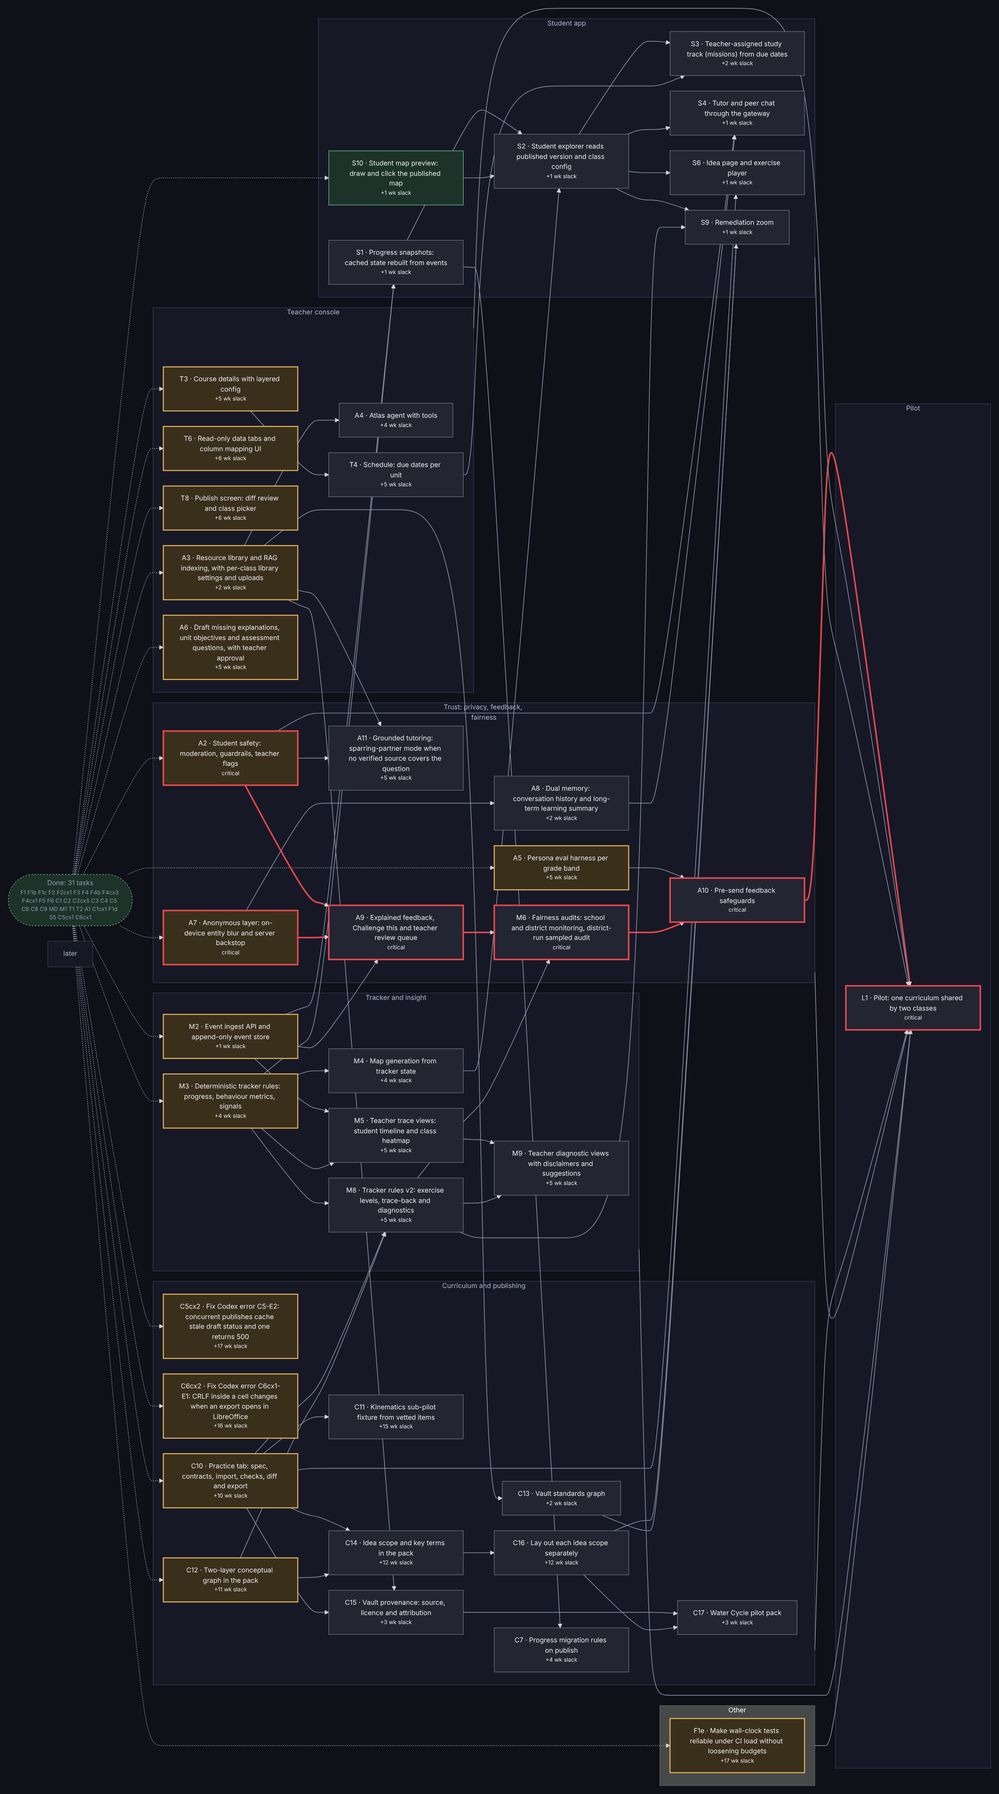
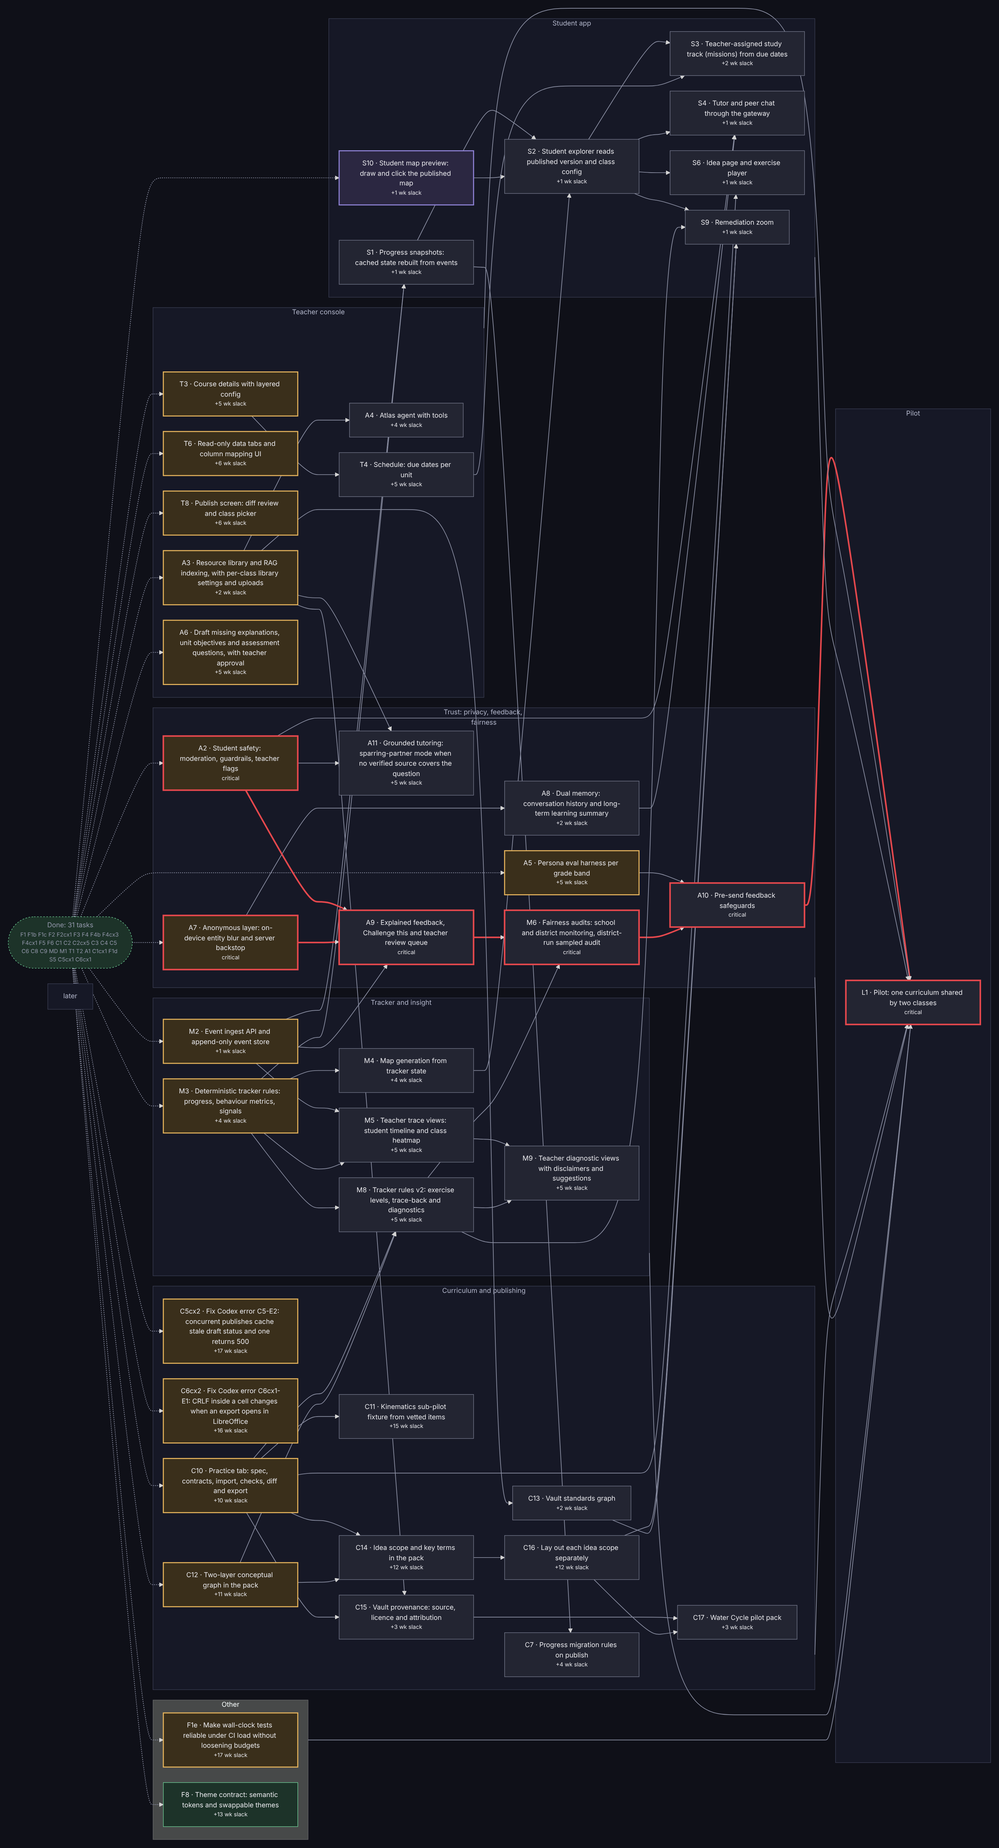
docs: D46 themeable design tokens; add F8 theme contract (v0.1)
User, 2026-10-29: colours and themes must come from a template so later
themes can be substituted. Nocturne stays the default with D10's
exceptions; other themes must pass WCAG AA outright. Criteria written
first. Also records the Claude Design loop for the student screens.

Claude-Session: https://claude.ai/code/session_017xAqLcBw3ZrNAbTTGfVg5K

diff --git a/docs/PLAN.md b/docs/PLAN.md
@@ -2,7 +2,7 @@
 
 <!-- Generated by `node scripts/plan.mjs` from docs/tasks.json. Do not edit by hand. -->
 
-**31 of 100 done** · 1 ready · 1 in progress · 15 in review · 34 blocked · 18 need a spec
+**31 of 101 done** · 2 ready · 1 in progress · 15 in review · 34 blocked · 18 need a spec
 
 Critical path to the v0.1 pilot: F1 → F3 → F4 → F5 → A1 → A2 → A9 → M6 → A10 → L1 (up to 20 weeks)
 
@@ -12,7 +12,7 @@ Goals and scope are in [ROADMAP.md](ROADMAP.md) (D45). Progress is weighted by t
 
 | Version | Focus | Done | Built | In review | In progress | Ready | Need a spec | Milestone |
 |---|---|---|---|---|---|---|---|---|
-| v0.1 | Pilot (MVP) | 31 of 73 | 39% | 15 | 1 | 0 | 1 | L1 |
+| v0.1 | Pilot (MVP) | 31 of 74 | 38% | 15 | 1 | 1 | 1 | L1 |
 | v0.2 | AI design principles | 0 of 12 | 0% | 0 | 0 | 0 | 8 | — |
 | v0.3 | Visuals and motivation | 0 of 8 | 0% | 0 | 0 | 0 | 7 | — |
 | v0.4 | Curriculum building | 0 of 7 | 0% | 0 | 0 | 1 | 2 | — |
@@ -23,8 +23,10 @@ Pick from here. Claim with `node scripts/plan.mjs claim <ID> <agent>`. A task ca
 
 | ID | Version | Task | Phase | Size | QA |
 |---|---|---|---|---|---|
+| F8 | v0.1 | Theme contract: semantic tokens and swappable themes | Foundations | ≤1 wk | [criteria](qa/F8.md) |
 | X2 | v0.4 | Self-hosted video and media provider | Extras & research | ≤1 wk | [criteria](qa/X2.md) |
 
+- **F8 done when:** Per D46: every colour reaches the apps only through tokens defined by a theme file; Nocturne is the default theme (D10 unchanged); map, category and state colours are tokens; a second theme swaps in at runtime without code changes; no raw colours outside theme files (checked in CI); every non-Nocturne theme passes WCAG AA outright
 - **X2 done when:** Per D42 (after the pilot, user 2026-10-29): media_url and demo_video_url resolve through a MediaProvider served from our own domain (no third-party players), with captions (D17); Cloudinary only as an optional backend behind it
 
 ## In progress
@@ -61,7 +63,7 @@ Pick from here. Claim with `node scripts/plan.mjs claim <ID> <agent>`. A task ca
 | S2 | v0.1 | Student explorer reads published version and class config | S1, M4, S10 |
 | S3 | v0.1 | Teacher-assigned study track (missions) from due dates | S2, T4 |
 | S4 | v0.1 | Tutor and peer chat through the gateway | S2, A2, A7, A8 |
-| L1 | v0.1 | Pilot: one curriculum shared by two classes | T6, T8, A4, A5, S3, S4, C7, M5, A6, A7, A9, A10, M6, C5cx2, A11, C6cx2, C10, C11, C12, C13, M8, M9, S6, F1e, C14, C15, C16, C17, S9, S10 |
+| L1 | v0.1 | Pilot: one curriculum shared by two classes | T6, T8, A4, A5, S3, S4, C7, M5, A6, A7, A9, A10, M6, C5cx2, A11, C6cx2, C10, C11, C12, C13, M8, M9, S6, F1e, C14, C15, C16, C17, S9, S10, F8 |
 | A8 | v0.1 | Dual memory: conversation history and long-term learning summary | A7 |
 | A9 | v0.1 | Explained feedback, Challenge this and teacher review queue | A2, M2, A7 |
 | A10 | v0.1 | Pre-send feedback safeguards | A9, A5, M6 |
@@ -105,7 +107,7 @@ Not claimable yet. A person writes the spec, then sets `placeholder` to false in
 | S11 | v0.3 | Sandbox exploration view | S2, C16, C12 |
 | S12 | v0.3 | Milo's avatar and peer reactions | S4 |
 | S13 | v0.3 | Student experience polish | S6, S4, T5 |
-| S14 | v0.3 | Map light-up, mystery unlocks and themes | S2, M4 |
+| S14 | v0.3 | Map light-up, mystery unlocks and themes | S2, M4, F8 |
 | S15 | v0.3 | Levels and perks | M8 |
 | A18 | v0.3 | Relational custom examples | A16 |
 | A19 | v0.3 | Productive struggle | A15 |
@@ -213,6 +215,7 @@ flowchart LR
   end
   subgraph other["Other"]
     F1e["F1e · Make wall-clock tests reliable under CI load without loosening budgets<br/><small>+17 wk slack</small>"]
+    F8["F8 · Theme contract: semantic tokens and swappable themes<br/><small>+13 wk slack</small>"]
   end
   DONE -.-> M2
   DONE -.-> M3
@@ -230,6 +233,7 @@ flowchart LR
   DONE -.-> C12
   DONE -.-> F1e
   DONE -.-> S10
+  DONE -.-> F8
   S1 --> C7
   M3 --> M4
   M2 --> M5
@@ -284,7 +288,7 @@ flowchart LR
   tracker --> L1
   other --> L1
   linkStyle default stroke:#8b8fa3,stroke-width:1.3px
-  linkStyle 32,34,36,38,39 stroke:#e5484d,stroke-width:3px
+  linkStyle 33,35,37,39,40 stroke:#e5484d,stroke-width:3px
   style trust fill:#161826,stroke:#3a3d52,color:#b2b6ca
   style tracker fill:#161826,stroke:#3a3d52,color:#b2b6ca
   style curriculum fill:#161826,stroke:#3a3d52,color:#b2b6ca
@@ -300,6 +304,7 @@ flowchart LR
   classDef done fill:#1d3329,stroke:#6fcf97,color:#9397ab,stroke-dasharray:3 3
   classDef crit stroke:#e5484d,stroke-width:3px
   class C7,M4,M5,T4,A4,S1,S2,S3,S4,L1,A8,A9,A10,M6,A11,C11,C13,M8,M9,S6,C14,C15,C16,C17,S9 todo
+  class F8 ready
   class S10 doing
   class M2,M3,T3,T6,T8,A2,A3,A5,A6,A7,C5cx2,C6cx2,C10,C12,F1e review
   class DONE done

diff --git a/docs/qa/F8.md b/docs/qa/F8.md
@@ -1,0 +1,40 @@
+# QA criteria: F8 · Theme contract: semantic tokens and swappable themes
+
+Done when: per D46, every colour (and every font, radius and shadow that a theme may change) reaches the apps only through named CSS custom properties defined by a **theme**. Nocturne is the default theme. A second theme can be substituted at runtime, without code changes, by adding one theme file. Map, category and state colours (open, locked, mastered, link, focus) are tokens too.
+Sources: `docs/ARCHITECTURE.md` D46, D10 (Nocturne unchanged; its 9 accepted contrast exceptions apply to Nocturne only), D17 (UDL; WCAG 2.1 AA); `packages/ui` (`tokens.ts`, `styles.css`, `styles.test.ts`, README); `project/_ds/`; `project/Idea Map Explorer v2.dc.html` (map, category and state colours); S10 (first consumer); S14 (v0.3 cosmetic themes, which will use this contract).
+
+Boundary:
+- In scope: the token contract, theme files, the switch mechanism, checks, and moving S10's map colours onto tokens if S10 has merged.
+- Out of scope: choosing or unlocking themes (S14, v0.3), any new visual design, and persisting a student's choice.
+
+## Functional
+
+| Id | Weight | Check | Steps | Pass bar |
+|---|---|---|---|---|
+| F8-F1 | must | Theme contract | Read `packages/ui` | One typed contract lists every themeable token. Semantic names cover surfaces, text, accent, divider, focus, the map (`--map-node-open`, `--map-node-locked`, `--map-node-mastered`, `--map-link`, `--map-centre` or equivalents), a category palette (at least 6 slots, assigned by category order, not hard-coded names) and feedback states (success, warning, danger, info). Nocturne's existing tokens keep their names and values (D10) |
+| F8-F2 | must | Themes are files | Read `packages/ui/src/themes/` | Nocturne is `nocturne.ts`, a complete value set for the contract. A theme is applied as `[data-theme="<id>"]` custom properties on the root, generated from the theme file. The default with no attribute is Nocturne, so nothing changes visually today |
+| F8-F3 | must | Substitution works | Add a test-only theme with obviously different values, switch to it at runtime in a test page and in a component test | Every themed element changes without a reload or code change. Switching back restores Nocturne exactly |
+| F8-F4 | must | Contract is complete | Type-check a theme missing one token; build | A missing token is a type error; an extra unknown token is an error. `styles.test.ts` (or a new test) fails if the stylesheet and the contract drift apart |
+| F8-F5 | must | No raw colours outside themes | Run the new check over `packages/ui/styles.css` (outside theme blocks), `apps/*/src` (CSS, TSX, TS) and inline styles | No hex, rgb(a), hsl(a) or named colours outside theme files. The one existing `rgb(117,117,117)` in `styles.css` becomes a token. The check runs in CI (a lint rule or a test) and names the file and line |
+| F8-F6 | must | Contrast per theme | Run the contrast test for every theme | Every text pair meets 4.5:1 and every UI-component pair 3:1 (WCAG 2.1 AA) on both grounds. D10's 9 named exceptions are allowed **only** for Nocturne; any other theme must pass outright |
+| F8-F7 | must | Docs | Read `packages/ui/README.md` | Explains the contract, how to add a theme (one file plus registration), the contrast rule and the no-raw-colours check |
+| F8-F8 | must | Everything passes | Root lint, format:check, typecheck, test with DATABASE_URL (including `function_binding.test.ts`), build and plan check, on the head merged with current `idea-map` | All exit 0; CI green on the exact head |
+
+## Security
+
+| Id | Weight | Check | Steps | Pass bar |
+|---|---|---|---|---|
+| F8-S1 | must | No runtime injection | Try to set a theme id that isn't registered, or a value containing `;}` | Unknown ids fall back to Nocturne; values come only from typed theme files, never from user input or the network |
+
+## Performance
+
+| Id | Weight | Check | Steps | Pass bar |
+|---|---|---|---|---|
+| F8-P1 | must | Switch cost | Switch themes on the S10 map with 60 ideas on a 4x CPU throttle | One style recalculation, under 100 ms, with no layout shift |
+
+## Usability
+
+| Id | Weight | Check | Steps | Pass bar |
+|---|---|---|---|---|
+| F8-U1 | must | Reference page | Open `apps/teacher/reference.html` (and the student UDL reference) | Shows every token and state for the active theme, with a theme switcher, so a designer can review a theme in one place |
+| F8-U2 | must | Reduced motion and forced colours | Windows high-contrast (forced colours) and `prefers-reduced-motion` | Map states stay distinguishable by shape or icon as well as colour (UDL); a theme switch has no animation under reduced motion |

diff --git a/docs/HANDOFF.md b/docs/HANDOFF.md
@@ -54,7 +54,7 @@ Background only, and rarely needed: `project/*.dc.html` (design prototypes, used
 - **D31:** the vault (official company assets, kept and versioned, each item keeping source, licence and attribution; NC or SA items need admin approval) and disposable class uploads. **D32:** safety flags are alerts, not the school's record. **D33:** on-device names come from an ML NER model. **D34:** persona eval baselines are teacher-approved.
 - **D35:** no verified source, no facts: the tutor becomes a Socratic sparring partner. **D36:** the student profile is age-bifurcated, with no mood data. **D37:** retention for sessions, plans and reflections. **D38:** diagnostic events, not clickstreams. **D39:** dual-track study plans and the notification hierarchy.
 - **D40:** Practice is the ninth tab, from vetted item banks only. It stays strict: a teacher's own uploads never enter Practice. **D41:** the Vault standards graph and the two-layer trace-back. **D42:** pilot scope; self-hosted video, moved to v0.4.
-- **D43:** Ideas gain `scope` (prerequisite, core, extension) and `key_terms`; the unchanged layout runs per scope. **D44:** the Water Cycle pilot graph (`docs/decisions/2026-10-29-water-cycle-pilot-graph.md`). **D45:** versions v0.1–v0.4; a task depends only on its own or an earlier version.
+- **D43:** Ideas gain `scope` (prerequisite, core, extension) and `key_terms`; the unchanged layout runs per scope. **D44:** the Water Cycle pilot graph (`docs/decisions/2026-10-29-water-cycle-pilot-graph.md`). **D45:** versions v0.1–v0.4; a task depends only on its own or an earlier version. **D46:** themeable tokens: every colour comes from a theme file; Nocturne is the default; other themes must pass AA outright (F8).
 
 ## 3. Rules you enforce
 
@@ -68,7 +68,7 @@ Background only, and rarely needed: `project/*.dc.html` (design prototypes, used
 5. **Fix tasks:** QA or Codex errors on merged work become `<ID>b` or `<ID>cx<n>` tasks, with must-only criteria. They start before other work and may exceed the 4-agent build limit by 2.
 6. **Suggestions** go into the next related task's criteria as should checks, or into `docs/qa/CXB.md`.
 7. Agents never edit `Codex-*` files, and never merge their own PRs. Never claim placeholder tasks (CXB and the v0.2–v0.4 placeholders).
-8. Ask the user only about genuinely new product or design decisions. Everything else follows the settled decisions (D1–D45). Record unresolved decisions in architecture §12; update settled decisions in the relevant architecture sections before dependent implementation.
+8. Ask the user only about genuinely new product or design decisions. Everything else follows the settled decisions (D1–D46). Record unresolved decisions in architecture §12; update settled decisions in the relevant architecture sections before dependent implementation.
 9. Enforce the stop/resume and handoff protocol in `AGENTS.md`. Documentation maintenance does not authorize restarting implementation or QA.
 
 ## 4. Gotchas (each one has bitten us)
@@ -102,7 +102,8 @@ Background only, and rarely needed: `project/*.dc.html` (design prototypes, used
 3. For each PR with a Codex PASS on its current head: sync with `idea-map`, wait for exact-head CI, run any full-suite must locally, then merge **one per pass** and confirm merge CI.
 4. Fix-task priority (rule 5): F1e, C5cx2 and C6cx2 merge ahead of feature PRs once they pass.
 5. Merging C10 and C12 unblocks C14 → C16 → C17 (pilot pack) and M8; merging A3 unblocks C13 and C15; merging T2-dependent PRs unblocks A4.
-6. Open with the user: §12 q26 (training data for v0.2 research), undecided; X4 (contrastive learning) is on hold. Don't raise it again until the user does.
+6. **Design loop (user, 2026-10-29):** when S10 (and later S2/S6) lands, put the screens into Claude Design for the user to iterate on: a Design artifact of the real screens, and the Nocturne tokens and themes as a Design System artifact (or `/design-sync`, which the user starts, to sync `packages/ui`). Turn the approved design changes into criteria and a builder task. Standalone claude.ai/design closes on 2026-12-14; Design now lives in Claude.
+7. Open with the user: §12 q26 (training data for v0.2 research), undecided; X4 (contrastive learning) is on hold. Don't raise it again until the user does.
 
 **Model policy (user, 2026-10-24):** Sonnet for build and fix agents; Haiku for triage, classification and high-volume sub-agent work; no new Opus sessions. Scheduled tasks "Idea Map swarm coordinator" (`trig_01UfngiANJA5GmTBDxkwSyKg`) and "Idea Map Codex watch" (`trig_013q6W2EPEsp9TJdPvNF8xpw`) are **disabled**; the coordinator runs on demand.
 

diff --git a/docs/ARCHITECTURE.md b/docs/ARCHITECTURE.md
@@ -1,6 +1,6 @@
 # Idea Map — Architecture
 
-Status: decisions D1–D45 settled (latest D45, 2026-10-29). Work is planned in versions v0.1–v0.4 (D45, `docs/ROADMAP.md`)
+Status: decisions D1–D46 settled (latest D46, 2026-10-29). Work is planned in versions v0.1–v0.4 (D45, `docs/ROADMAP.md`)
 Scope: the whole platform, with the Teacher Settings page (`project/Teacher Settings.dc.html`) as the first surface to build.
 Branch: `idea-map` (separate from MindyourTutor on `main`/`init`).
 Companions: `docs/README.md` (map of the docs), `docs/ROADMAP.md` (versions), `docs/PLAN.md` (live to-do list and dependency map, generated from `docs/tasks.json`), `AGENTS.md` (how work is claimed).
@@ -54,6 +54,7 @@ Companions: `docs/README.md` (map of the docs), `docs/ROADMAP.md` (versions), `d
 | D43 | Idea scope and key terms | Ideas gain two optional `sheet` columns. `scope` ∈ prerequisite, core, extension (missing means core) says where an idea sits: **core** ideas form the grade's main map; **prerequisite** ideas (earlier units or lower grades) appear when a student zooms in for remediation; **extension** ideas form the sandbox of outward connections. `scope` is independent of D41's `layer` (process or mechanism). `unit` stays required: for a prerequisite or extension idea it names the unit the idea supports. `key_terms` is a list of the vocabulary taught inside an idea (instruments, units, examples such as barometer, lux, hailstone); key terms are never map nodes, and are used for the glossary, search, retrieval and Milo's teach-back check. Only a full process with its own objective, practice and teach-back becomes an idea. The layout algorithm is unchanged, but it runs per scope, so the main map is laid out from core ideas only (user, 2026-10-29). Tasks C14, C16; zoom and sandbox views S9 (later version) |
 | D44 | Water Cycle pilot graph | The pilot Water Cycle (D42) is authored in-house, with OpenSciEd Unit 6.3 (CC BY 4.0) as the conceptual reference and vocabulary inventory, never imported wholesale. It has 10 ideas: 2 prerequisite, 6 core (including Runoff, Collection & Gravity, which closes the cycle and covers gravity, as MS-ESS2-4 requires) and 2 extension, plus 12 links. The graph is in `docs/decisions/2026-10-29-water-cycle-pilot-graph.md`. Clicking an idea opens its teaching and practice page (S6), not a nested sub-graph (user, 2026-10-29). Task C17 |
 | D45 | Versions | Work ships in four versions; each task in `docs/tasks.json` carries one, and a task may depend only on its own or an earlier version. **v0.1 Pilot (MVP):** what the app can't live without; the pilot (L1) is its milestone. It includes explained, challengeable feedback with teacher review (A9, A10), fairness audits (M6), UDL (D17), the anonymous layer and dual memory (A7, A8), the Practice tab, Vault standards graph and two-layer trace-back (C10–C17, M8), and the student map with remediation zoom (S10, S1, S2, S9, S6). Track 1 content in v0.1 is vetted practice and worked-example steps, without video. **v0.2 AI design principles:** context from anonymised summaries (D28), metacognition, interests, the study planner, model sandboxes and research. **v0.3 Visuals and motivation:** Milo's avatar, cards, rewards, levels, sandbox exploration (S11). **v0.4 Curriculum building:** Atlas as the editing interface, Track 2 drafting from uploads, prerequisite editing (T9), the persona editor, self-hosted video (X2, which D42 had moved after the pilot) and Drive import. Scope per version is in `docs/ROADMAP.md` (user, 2026-10-29) |
+| D46 | Themeable design tokens | Colours and themes are templates: every colour (and any font, radius or shadow a theme may change) reaches the apps only through named tokens defined by a theme file, including map, category and state colours. Nocturne is the default theme and keeps its values and D10's 9 accepted contrast exceptions; any other theme must meet WCAG 2.1 AA outright. Themes swap at runtime without code changes, so v0.3's cosmetic themes (S14) and future school or accessibility themes slot in (user, 2026-10-29). Task F8 |
 
 ## 2. The core split
 

diff --git a/AGENTS.md b/AGENTS.md
@@ -50,7 +50,7 @@ One coordinator session runs the swarm:
 
 ## Decisions and architecture updates
 
-Resolve routine implementation and integration choices using the settled architecture and task criteria. Do not reopen settled decisions (D1–D45). For a genuinely new product/design decision, record the question in architecture §12, ask the user and continue only independent work within the authorized scope. When a decision is settled, update the relevant architecture section and decision record before dependent implementation; remove only the resolved question by subject and preserve unrelated questions. Status, CI outcomes and parked work belong in the handoff/QA documents, not new architecture decisions. C9 implemented existing D12/D13; the C5 count question is settled as D14.
+Resolve routine implementation and integration choices using the settled architecture and task criteria. Do not reopen settled decisions (D1–D46). For a genuinely new product/design decision, record the question in architecture §12, ask the user and continue only independent work within the authorized scope. When a decision is settled, update the relevant architecture section and decision record before dependent implementation; remove only the resolved question by subject and preserve unrelated questions. Status, CI outcomes and parked work belong in the handoff/QA documents, not new architecture decisions. C9 implemented existing D12/D13; the C5 count question is settled as D14.
 
 On completion or handoff, publish task status, immutable-report references, exact reviewed/base/merged heads, actual CI evidence, pending checks, deferred suggestions, parked branches and worker state. Record whether schedules were actually stopped; do not claim control of inaccessible sessions or schedules.
 

diff --git a/docs/ROADMAP.md b/docs/ROADMAP.md
@@ -18,6 +18,7 @@ Idea Map ships in four versions (decision D45, user, 2026-10-29). Each task in `
 | Feedback loop | The reason is shown with every piece of feedback, with **Challenge this** to flag it for teacher review. Summative feedback waits for the teacher. Before sending, a separate verifier and tone and reading-level checks run, and low confidence goes to the teacher | A9, A10 (D15, D16) |
 | Fairness | Demographic parity difference and disparate impact ratio (flagged under 0.8), compared across schools and districts, with a district-run sampled audit | M6 (D16, D23) |
 | UDL | CAST UDL 3.0 is acceptance criteria for every student screen (the S5 checklist) | S5 (done), every S task (D17) |
+| Themes | Every colour comes from a theme file through named tokens; Nocturne is the default; new themes swap in without code changes | F8 (D46) |
 | Privacy | The anonymous layer blurs names on the device with ML NER plus pattern rules before text leaves it. Dual memory: the anonymised conversation plus long-term learning summaries | A7, A8 (D26–D29, D33) |
 | Grounded AI | Facts come only from verified sources (curriculum, vault, class uploads), with citations. Otherwise the tutor becomes a Socratic sparring partner. Safety and moderation | A2, A3, A11 (D35) |
 | Curriculum data | The Practice tab from vetted item banks only. `scope`, `key_terms` and `oer_reference`. Vault provenance (source, licence, attribution). The two-layer graph. The Vault standards graph. Per-scope layout. The pilot packs | C10–C17 (D40, D41, D43, D31) |

diff --git a/docs/README.md b/docs/README.md
@@ -7,7 +7,7 @@ Start with [ROADMAP.md](ROADMAP.md) for where the product is going and [PLAN.md]
 | File | What it is |
 |---|---|
 | [ROADMAP.md](ROADMAP.md) | Versions v0.1–v0.4: goals, scope, and what each leaves out (D45) |
-| [ARCHITECTURE.md](ARCHITECTURE.md) | Settled decisions D1–D45 (§1), system design (§2–§11) and open questions (§12) |
+| [ARCHITECTURE.md](ARCHITECTURE.md) | Settled decisions D1–D46 (§1), system design (§2–§11) and open questions (§12) |
 | [decisions/](decisions/) | The user's longer decision records: the prototype spec and the Water Cycle pilot graph (D44) |
 | [spec/](spec/) | The Curriculum Pack format, field by field (fields JSON, JSON Schema) |
 | [privacy/data-inventory.md](privacy/data-inventory.md) | What data is held, where, and for how long |
